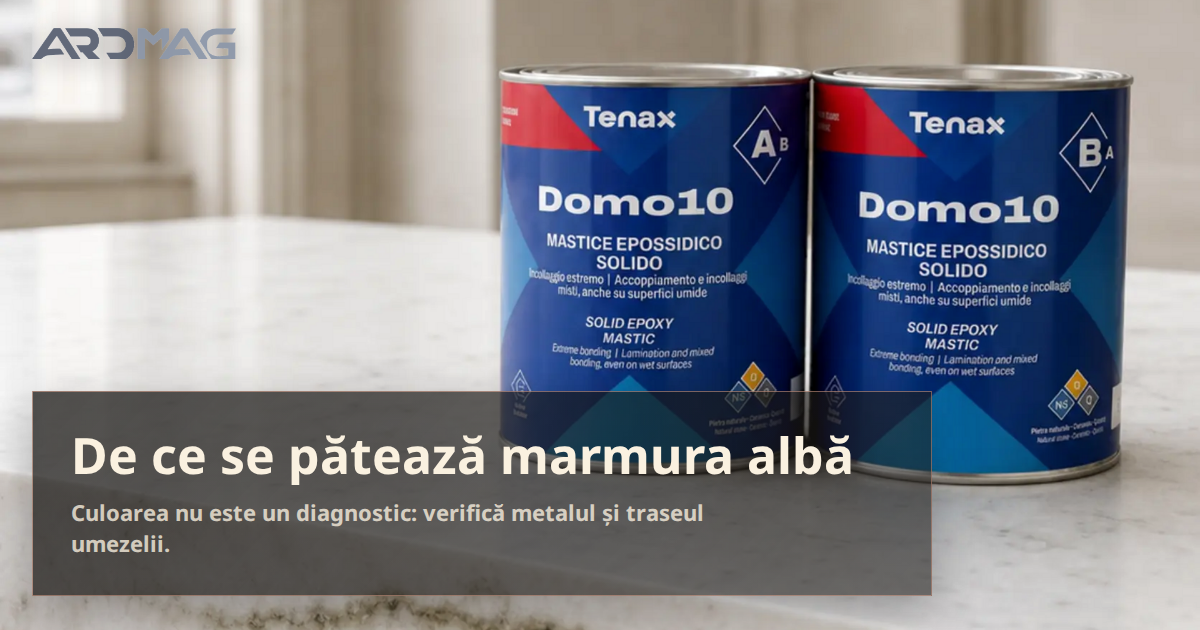
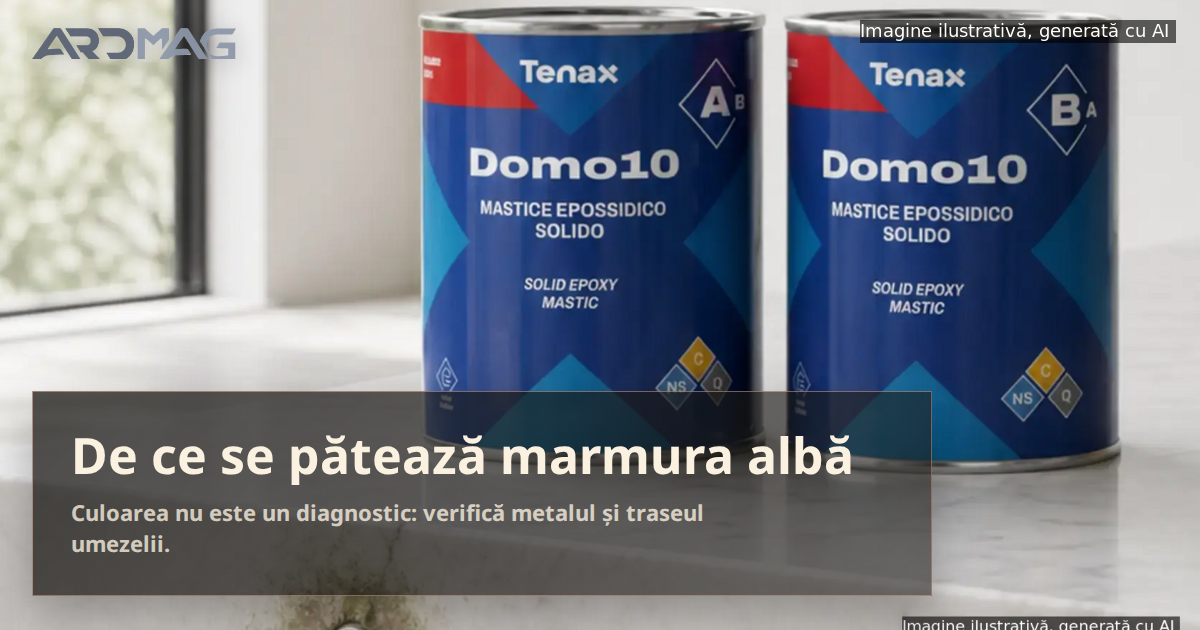
fix(blog): regenerate Domo10 visual and disclose AI

diff --git a/backend-storefront/content/blog/de-ce-inverzeste-marmura-alba-solutia-epoxidica.md b/backend-storefront/content/blog/de-ce-inverzeste-marmura-alba-solutia-epoxidica.md
@@ -11,6 +11,8 @@ heroImage: "/blog/de-ce-inverzeste-marmura-alba-solutia-epoxidica/hero.webp"
 ogImage: "/assets/articles/de-ce-inverzeste-marmura-alba-solutia-epoxidica/og.png"
 ---
 
+*Imagine ilustrativă, generată cu AI.*
+
 O urmă verde sau brună pe marmură albă nu are o singură explicație. Când apare lângă un decupaj, o muchie ori o prindere, una dintre ipotezele de verificat este coroziunea unei armături sau a unei piese metalice aflate în spatele pietrei. Culoarea singură nu identifică sigur metalul și nici sursa petei.
 
 Pentru atelier, ordinea corectă este simplă; localizezi metalul și traseul umezelii, apoi alegi reparația. Un detergent aplicat pe fața plăcii nu poate opri o sursă activă din spate.
